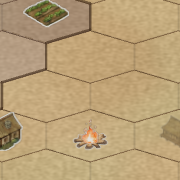
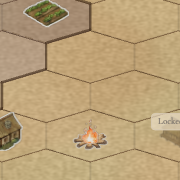
Apply PR #23 review-gate fixes (seat double-render, resting seat label, needs-a-human wording)
1. Owner view drew every locked seat twice (OwnerViewLayer's seat loop AND the
   MapLandmarks layer mounted beside it). Remove the seat loop from
   OwnerViewLayer — MapLandmarks owns seats in both view modes now;
   layout.seats still feeds the HUD count.
2. Locked seats showed no resting label (only a hover tooltip), so a resting /
   touch seat read as a bare ghost. Add a quiet persistent "Locked seat"
   marker at rest; hover still swaps in "Future teammate — this seat unlocks
   later." (mutually exclusive, no overlap).
3. The overlay's colleague-scoped needs-a-human count contradicted a global
   board jump. Split them: the count line reads "N of <name>'s cards need a
   human", the action reads "Open the board's needs-a-human lane"; drop the
   dead colleagueId param (rename onOpenColleagueBoard → onOpenNeedsHumanBoard).

Screenshots regenerated. Journal schema consolidation with L1 deferred to the
post-L1 rebase.

Changed region(s): [[0.8333, 0.6111, 1.0, 0.75]]

diff --git a/packages/viewer/src/components/map/ColleagueOverlay.tsx b/packages/viewer/src/components/map/ColleagueOverlay.tsx
@@ -162,29 +162,34 @@ export function ColleagueOverlay({
           )}
 
           <div
-            className="mt-3 flex flex-wrap items-center gap-2 border-t pt-3"
+            className="mt-3 flex flex-col gap-2 border-t pt-3"
             style={{ borderColor: MAP_FALLBACK_COLORS.border }}
           >
-            <ParchmentActionButton
-              label={`${identity.name}'s workspace`}
-              onClick={onOpenAgentPage}
-            />
-            <button
-              type="button"
-              data-testid="colleague-overlay-needs-human"
-              onClick={onOpenBoard}
-              className="rounded border px-2 py-1 text-xs font-semibold"
-              style={{
-                backgroundColor: MAP_FALLBACK_COLORS.field,
-                borderColor: MAP_FALLBACK_COLORS.border,
-                color: MAP_FALLBACK_COLORS.subtext,
-              }}
+            {/* The count is colleague-scoped (cards joined to the systems this
+                colleague runs); the action opens the board's whole
+                needs-a-human lane — cards carry no colleague field, so the
+                board can't be filtered to one colleague. Count and destination
+                are worded so they don't contradict. */}
+            <p
+              className="text-[11px]"
+              data-testid="colleague-overlay-needs-human-count"
+              style={{ color: MAP_FALLBACK_COLORS.subtext }}
             >
               {needsHumanCount === 1
-                ? "1 card needs a human"
-                : `${needsHumanCount} cards need a human`}
-              <span className="ml-1 opacity-70">· see on the board</span>
-            </button>
+                ? `1 of ${identity.name}'s cards needs a human`
+                : `${needsHumanCount} of ${identity.name}'s cards need a human`}
+            </p>
+            <div className="flex flex-wrap items-center gap-2">
+              <ParchmentActionButton
+                label={`${identity.name}'s workspace`}
+                onClick={onOpenAgentPage}
+              />
+              <ParchmentActionButton
+                label="Open the board's needs-a-human lane"
+                onClick={onOpenBoard}
+                testId="colleague-overlay-needs-human"
+              />
+            </div>
           </div>
         </div>
       </div>

diff --git a/packages/viewer/src/components/map/LandmarkTooltip.tsx b/packages/viewer/src/components/map/LandmarkTooltip.tsx
@@ -1,8 +1,9 @@
-// A small hover tooltip anchored at a landmark's hex (drei Html, pointer-
-// transparent so it never blocks the sprite underneath). Used by the colleague
-// building (its name on hover) and the locked seat (its "future teammate"
-// caption). Kept below MapDevView's z-10 HUD chrome, like OwnerViewLayer's
-// OwnerChip; this one is the hover-only variant shared across both view modes.
+// A small caption anchored at a landmark's hex (drei Html, pointer-transparent
+// so it never blocks the sprite underneath). Used by the colleague building
+// (its name on hover) and the locked seat (a quiet persistent "Locked seat"
+// marker at rest, its fuller "future teammate" caption on hover). Kept below
+// MapDevView's z-10 HUD chrome, like OwnerViewLayer's OwnerChip; shared across
+// both view modes.
 
 import { Html } from "@react-three/drei";
 import type { CSSProperties, ReactNode } from "react";
@@ -15,13 +16,24 @@ const TOOLTIP_STYLE: CSSProperties = {
   color: MAP_FALLBACK_COLORS.subtext,
 };
 
+// The quiet resting variant (the persistent locked-seat marker): dimmer field
+// and text so it reads as a static "this plot is reserved" note, not an alert.
+const MUTED_TOOLTIP_STYLE: CSSProperties = {
+  backgroundColor: withAlpha(MAP_SCENE_COLORS.background, 0.62),
+  borderColor: MAP_FALLBACK_COLORS.border,
+  color: "#8d8478",
+};
+
 export function LandmarkTooltip({
   coord,
   italic = false,
+  muted = false,
   children,
 }: {
   coord: HexCoord;
   italic?: boolean;
+  /** Quiet resting treatment (dim field + text) for a persistent marker. */
+  muted?: boolean;
   children: ReactNode;
 }) {
   const [x, z] = hexToWorld(coord, HEX_SIZE);
@@ -36,7 +48,7 @@ export function LandmarkTooltip({
         className={`whitespace-nowrap rounded border px-1.5 py-0.5 text-[9px] font-semibold${
           italic ? " italic" : ""
         }`}
-        style={TOOLTIP_STYLE}
+        style={muted ? MUTED_TOOLTIP_STYLE : TOOLTIP_STYLE}
       >
         {children}
       </span>

diff --git a/packages/viewer/src/components/map/OwnerViewLayer.tsx b/packages/viewer/src/components/map/OwnerViewLayer.tsx
@@ -21,7 +21,6 @@ import * as THREE from "three";
 import { OWNER_VIEW_COLORS } from "./colors";
 import { FixedBuilding } from "./FixedBuilding";
 import { HEX_SIZE, hexToWorld, type HexCoord } from "./hex";
-import { LockedSeatLandmark } from "./MapLandmarks";
 import { HEX_CELL_HEIGHT } from "./materials";
 import type { OwnerTerritory, OwnerViewLayout, OwnerWorkMarker } from "./layout/owner-view";
 
@@ -194,6 +193,10 @@ type OwnerViewLayerProps = {
 };
 
 export function OwnerViewLayer({ layout, onColleagueClick }: OwnerViewLayerProps) {
+  // Locked seats are NOT rendered here: they are view-independent landmarks,
+  // owned by the MapLandmarks layer mounted beside this one in both view modes
+  // (rendering them here too would double-draw every seat in Owner view).
+  // `layout.seats` still feeds the HUD's locked-seat count.
   return (
     <>
       {layout.territories.map((territory) => (
@@ -203,11 +206,6 @@ export function OwnerViewLayer({ layout, onColleagueClick }: OwnerViewLayerProps
             <WorkMarker key={marker.entity.id} marker={marker} />
           ))}
         </group>
-      ))}
-      {/* Seats render through the shared locked-seat piece (MapLandmarks) so a
-          future-teammate plot looks and behaves the same in both view modes. */}
-      {layout.seats.map((seat) => (
-        <LockedSeatLandmark key={seat.id} coord={seat.coord} />
       ))}
     </>
   );

diff --git a/packages/viewer/src/components/map/MapTabView.tsx b/packages/viewer/src/components/map/MapTabView.tsx
@@ -94,8 +94,12 @@ export type MapTabViewProps = {
   runtimeClient: ViewerRuntimeClient;
   /** Agent roster (name/role) for the colleague overlay's identity line. */
   agents: readonly RuntimeAgent[];
-  /** Jump to the Info Hub board filtered to a colleague's needs-a-human cards. */
-  onOpenColleagueBoard: (colleagueId: string) => void;
+  /**
+   * Open the Info Hub board's needs-a-human lane (the whole lane — cards carry
+   * no colleague field, so it is not filtered to one colleague; the overlay's
+   * count is the colleague-scoped number).
+   */
+  onOpenNeedsHumanBoard: () => void;
   /** Open a colleague's per-agent page (the bench quick-bar link). */
   onOpenAgentPage: (colleagueId: string) => void;
 };
@@ -305,7 +309,7 @@ export function MapTabView({
   onSaveCards,
   runtimeClient,
   agents,
-  onOpenColleagueBoard,
+  onOpenNeedsHumanBoard,
   onOpenAgentPage,
 }: MapTabViewProps) {
   const [hasWebGLSupport] = useState(
@@ -906,7 +910,7 @@ export function MapTabView({
           journalError={colleagueJournal.error}
           needsHumanCount={openColleagueNeedsHuman}
           onOpenAgentPage={() => onOpenAgentPage(openColleagueId)}
-          onOpenBoard={() => onOpenColleagueBoard(openColleagueId)}
+          onOpenBoard={onOpenNeedsHumanBoard}
           onClose={() => setOpenColleagueId(null)}
         />
       ) : null}

diff --git a/packages/viewer/src/components/library/LibraryBrowserApp.tsx b/packages/viewer/src/components/library/LibraryBrowserApp.tsx
@@ -926,11 +926,10 @@ export function LibraryBrowserApp({ initialCatalog, initialGraph }: LibraryBrows
                 onSaveCards={infoHubBoard.saveCards}
                 runtimeClient={runtimeClient}
                 agents={projectState.agents}
-                // The colleague overlay's needs-a-human jump lands on the
-                // board filtered to that status (cards carry no colleague
-                // field to filter by; the overlay shows the colleague-scoped
-                // count).
-                onOpenColleagueBoard={() =>
+                // Opens the board's needs-a-human lane for everyone (cards
+                // carry no colleague field to filter by; the overlay shows the
+                // colleague-scoped count separately).
+                onOpenNeedsHumanBoard={() =>
                   navigate({
                     surface: "info",
                     searchParams: new URLSearchParams({ status: "needs-a-human" }),

diff --git a/packages/viewer/src/components/map/MapLandmarks.tsx b/packages/viewer/src/components/map/MapLandmarks.tsx
@@ -58,11 +58,18 @@ export function LockedSeatLandmark({ coord }: { coord: HexCoord }) {
   return (
     <>
       <FixedBuilding kind="locked-seat" coord={coord} onHoverChange={setHovered} />
+      {/* A quiet persistent marker so a resting (or touch, no-hover) seat still
+          reads as a locked plot rather than a bare ghost building; hovering
+          swaps in the fuller "future teammate" caption. */}
       {hovered ? (
         <LandmarkTooltip coord={coord} italic>
           Future teammate — this seat unlocks later.
         </LandmarkTooltip>
-      ) : null}
+      ) : (
+        <LandmarkTooltip coord={coord} muted>
+          Locked seat
+        </LandmarkTooltip>
+      )}
     </>
   );
 }
